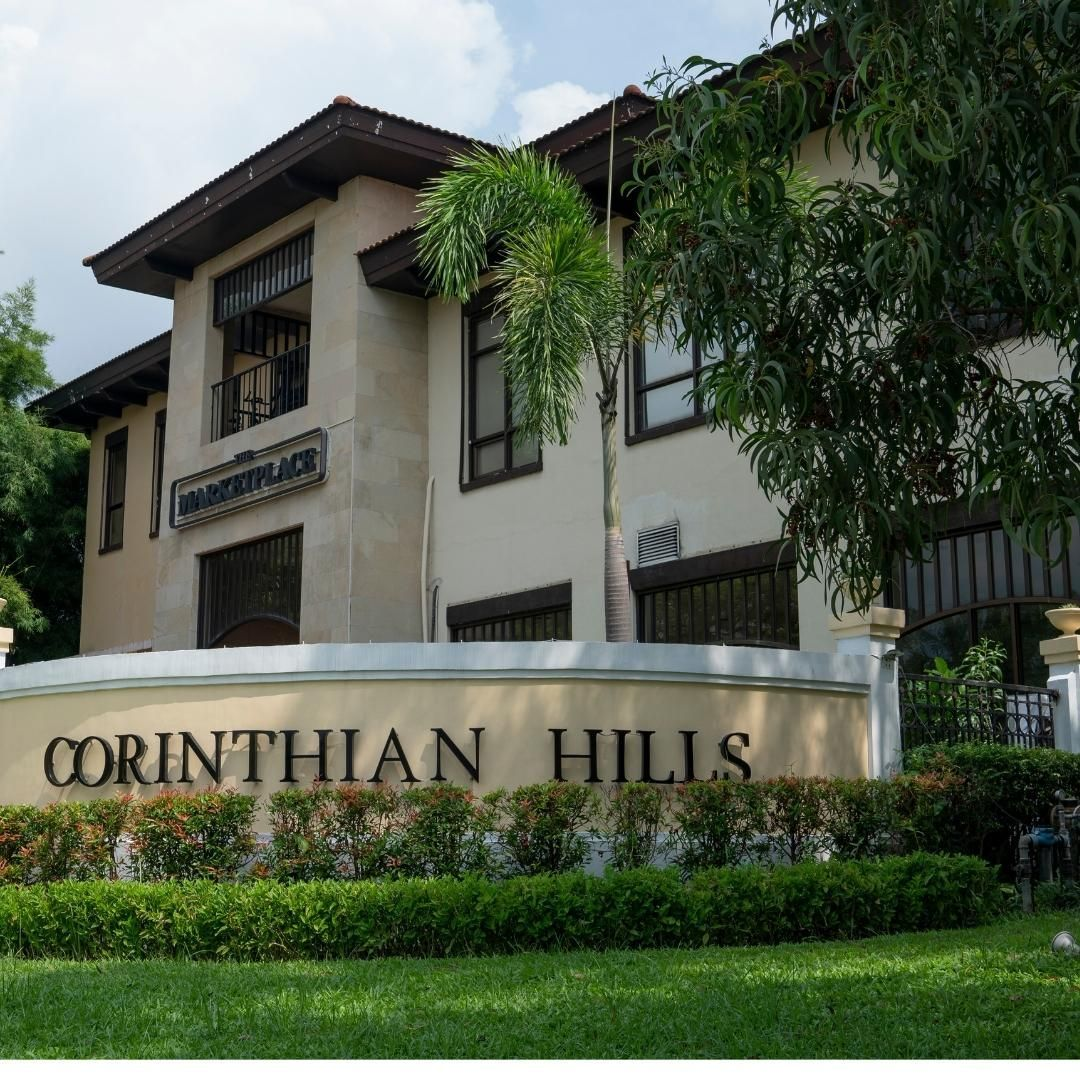
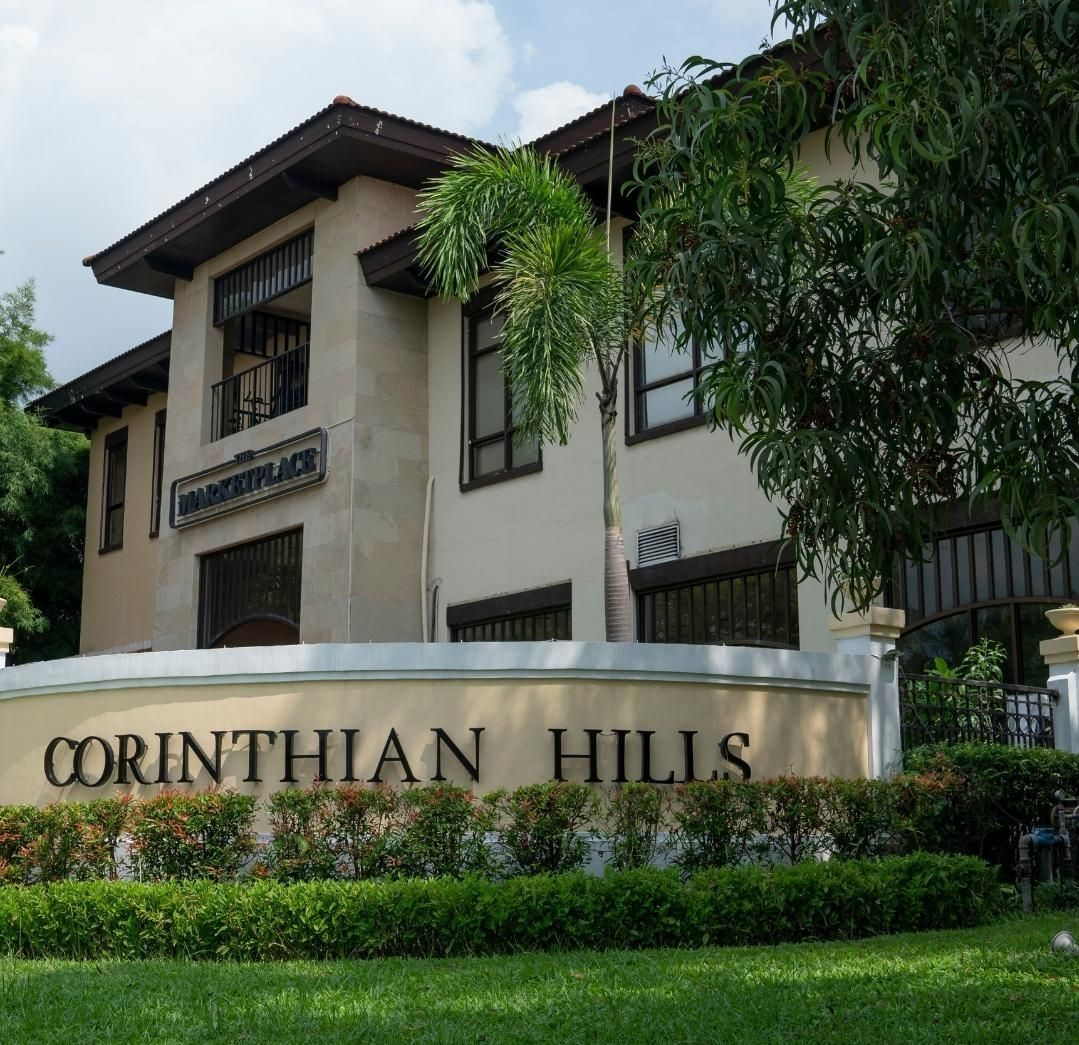
updates for other pages

diff --git a/pages/public/projects/index.tsx b/pages/public/projects/index.tsx
@@ -1,0 +1,127 @@
+import React, { useEffect, useState } from "react";
+import Header from "@/components/Layout/_Header";
+import HeaderBar from "@/components/Layout/HeaderBar";
+import GlobalFooter from '@/components/Layout/GlobalFooter';
+
+export default function Projects() {
+
+    return (
+        
+        <div>
+            <Header />
+            <HeaderBar />
+
+            <div className="d-flex text-center flex-column align-items-center cutter-section">
+                <div className="container">
+
+                    <div className="heading-block text-center border-0 cutter-title" data-heading="P">
+                        <h2 className="fs-1 fw-bold mb-4">Our Projects</h2>
+                        <small className="fs-5 fw-light text-secondary">
+                            Our Projects showcase the strength, precision, and reliability behind every PVC pipe solution we deliver. 
+                            From residential plumbing to large-scale commercial systems, we build durable connections that stand the test of time.
+                        </small>
+                    </div>
+
+                </div>
+
+                <div className="container projects-gallery">
+                    
+                    <div className="d-flex flex-column gap-2">
+                        <div className="d-flex flex-column flex-md-row align-items-center gap-4 my-5">
+                            <img src="/images/projects/proj8.jpg" alt="" className="img-fluid rounded-3 animate-hov shadow" />
+                            <div className="d-flex flex-column text-start ps-5">
+                                <h3>Heritage Park</h3>
+                                <small className="fs-5 fw-light text-secondary">
+                                    Our Projects showcase the strength, precision, and reliability behind every PVC pipe solution we deliver. 
+                                    From residential plumbing to large-scale commercial systems, we build durable connections that stand the test of time.
+                                </small>
+                            </div>
+                        </div>
+                        <div className="d-flex flex-column flex-md-row align-items-center gap-4 my-5">
+                            <div className="d-flex flex-column text-start pe-3">
+                                <h3>El Jardin Del Presidente</h3>
+                                <small className="fs-5 fw-light text-secondary">
+                                    Our Projects showcase the strength, precision, and reliability behind every PVC pipe solution we deliver. 
+                                    From residential plumbing to large-scale commercial systems, we build durable connections that stand the test of time.
+                                </small>
+                            </div>
+                            <img src="/images/projects/proj5.jpg" alt="" className="img-fluid rounded-3 animate-hov shadow" />
+                        </div>
+                    </div>
+                    <div className="d-flex flex-column gap-2">
+                        <div className="d-flex flex-column flex-md-row align-items-center gap-4 my-5">
+                            <img src="/images/projects/proj2.jpg" alt="" className="img-fluid rounded-3 animate-hov shadow" />
+                            <div className="d-flex flex-column text-start ps-5">
+                                <h3>RCBC Plaza</h3>
+                                <small className="fs-5 fw-light text-secondary">
+                                    Our Projects showcase the strength, precision, and reliability behind every PVC pipe solution we deliver. 
+                                    From residential plumbing to large-scale commercial systems, we build durable connections that stand the test of time.
+                                </small>
+                            </div>
+                        </div>
+                        <div className="d-flex flex-column flex-md-row align-items-center gap-4 my-5">
+                            <div className="d-flex flex-column text-start pe-3">
+                                <h3>Robinson's Galleria Regency</h3>
+                                <small className="fs-5 fw-light text-secondary">
+                                    Our Projects showcase the strength, precision, and reliability behind every PVC pipe solution we deliver. 
+                                    From residential plumbing to large-scale commercial systems, we build durable connections that stand the test of time.
+                                </small>
+                            </div>
+                            <img src="/images/projects/proj6.jpg" alt="" className="img-fluid rounded-3 animate-hov shadow" />
+                        </div>
+                    </div>
+                    <div className="d-flex flex-column gap-2">
+                        <div className="d-flex flex-column flex-md-row align-items-center gap-4 my-5">
+                            <img src="/images/projects/proj4.jpg" alt="" className="img-fluid rounded-3 animate-hov shadow" />
+                            <div className="d-flex flex-column text-start ps-5">
+                                <h3>Corinthian Hills</h3>
+                                <small className="fs-5 fw-light text-secondary">
+                                    Our Projects showcase the strength, precision, and reliability behind every PVC pipe solution we deliver. 
+                                    From residential plumbing to large-scale commercial systems, we build durable connections that stand the test of time.
+                                </small>
+                            </div>
+                        </div>
+                        <div className="d-flex flex-column flex-md-row align-items-center gap-4 my-5">
+                            <div className="d-flex flex-column text-start pe-3">
+                                <h3>Greenbelt 1 & 2 Redevelopment</h3>
+                                <small className="fs-5 fw-light text-secondary">
+                                    Our Projects showcase the strength, precision, and reliability behind every PVC pipe solution we deliver. 
+                                    From residential plumbing to large-scale commercial systems, we build durable connections that stand the test of time.
+                                </small>
+                            </div>
+                            <img src="/images/projects/proj7.jpg" alt="" className="img-fluid rounded-3 animate-hov shadow" />
+                        </div>
+                    </div>
+                    <div className="d-flex flex-column gap-2">
+                        <div className="d-flex flex-column flex-md-row align-items-center gap-4 my-5">
+                            <img src="/images/projects/proj10.jpg" alt="" className="img-fluid rounded-3 animate-hov shadow" />
+                            <div className="d-flex flex-column text-start ps-5">
+                                <h3>Manila - Japanese School</h3>
+                                <small className="fs-5 fw-light text-secondary">
+                                    Our Projects showcase the strength, precision, and reliability behind every PVC pipe solution we deliver. 
+                                    From residential plumbing to large-scale commercial systems, we build durable connections that stand the test of time.
+                                </small>
+                            </div>
+                        </div>
+                        <div className="d-flex flex-column flex-md-row align-items-center gap-4 my-5">
+                            <div className="d-flex flex-column text-start pe-3">
+                                <h3>Paseo Parkview</h3>
+                                <small className="fs-5 fw-light text-secondary">
+                                    Our Projects showcase the strength, precision, and reliability behind every PVC pipe solution we deliver. 
+                                    From residential plumbing to large-scale commercial systems, we build durable connections that stand the test of time.
+                                </small>
+                            </div>
+                            <img src="/images/projects/proj9.jpg" alt="" className="img-fluid rounded-3 animate-hov shadow" />
+                        </div>
+                    </div>
+
+                </div>
+            </div>
+
+            <div className="w-100">
+                <GlobalFooter />
+            </div>
+        </div>
+
+    );
+}

diff --git a/pages/public/product/[slug].tsx b/pages/public/product/[slug].tsx
@@ -677,9 +677,16 @@ export default function PublicProductDetail({ product, slugOrId }: Props) {
 										Secure checkout • Fast support • Easy returns
 									</p>
 								</div> */}
-								<h5 className="text-base font-semibold uppercase" style={{ margin: 0, marginBottom: 6 }}>Additional Information</h5>
+								<h5 className="text-base font-semibold uppercase" style={{ margin: 0, marginBottom: 6 }}>Technical Specifications</h5>
 								<p className="txt14">
 									Imperial PVC is a leading supplier of high-quality PVC products, committed to delivering durable and innovative solutions for modern construction needs. With a focus on quality, reliability, and customer satisfaction, we provide a wide range of PVC products designed to meet the demands of both residential and commercial projects.
+								</p>
+
+								<hr style={{ opacity: 0.12, margin: "22px 0" }} />
+
+								<h5 className="text-base font-semibold uppercase" style={{ margin: 0, marginBottom: 6 }}>Other Details</h5>
+								<p className="txt14">
+									We provide a wide range of PVC products designed to meet the demands of both residential and commercial projects.
 								</p>
 							</div>
 						</div>

diff --git a/pages/public/news.tsx b/pages/public/news.tsx
@@ -15,17 +15,19 @@ export default function NewsPage({ articles, categories, archives }: Props) {
   return (
     <div className="container">
       <div className="row">
+
+        {/* SIDEBAR */}
+        <div className="col-md-4 col-lg-3">
+          <div className="sidebar2 p-t-80 p-b-80 p-l-20 p-l-0-md p-t-0-md p-r-10-md p-r-20">
+            <LeftSidebar categories={categories} archive={archives} />
+          </div>
+        </div>
+
         {/* MAIN CONTENT */}
         <div className="col-md-8 col-lg-9">
           <NewsList articles={articles} />
         </div>
 
-        {/* SIDEBAR */}
-        <div className="col-md-4 col-lg-3">
-          <div className="sidebar2 p-t-80 p-b-80 p-l-20 p-l-0-md p-t-0-md">
-            <LeftSidebar categories={categories} archive={archives} />
-          </div>
-        </div>
       </div>
     </div>
   );

diff --git a/styles/custom.css b/styles/custom.css
@@ -38,22 +38,22 @@
     line-height: .3;
 }
 
-.card.animate-hov {
+.animate-hov {
     transition: all 0.3s ease;
     padding: 0px;
 }
 
-.card.animate-hov:hover {
+.animate-hov:hover {
     transform: scale(1.05);
     background-color: #f5f5f5;
 }
 
-.card.animate-hov:hover h2,
-.card.animate-hov:hover h3 {
+.animate-hov:hover h2,
+.animate-hov:hover h3 {
     color: #ff7b00;
 }
 
-.card.animate-hov .image-responsive {
+.animate-hov .image-responsive {
     max-height: 170px;
     overflow-y: hidden;
 }
@@ -69,4 +69,8 @@ img.proj-image {
 
 .cutter-title {
     margin-bottom: 4rem;
+}
+
+.projects-gallery img.animate-hov {
+    max-width: 600px;
 }

diff --git a/components/News/LeftSidebar.tsx b/components/News/LeftSidebar.tsx
@@ -1,5 +1,6 @@
 import { useRouter } from "next/router";
 import { useState } from "react";
+import SearchIcon from "../icons/search";
 
 type Props = {
   categories: any[];
@@ -49,8 +50,9 @@ export default function LeftSidebar({ categories, archive }: Props) {
         />
         <button
           className="btn-search-sidebar2 flex-c-m ti-search trans-0-4"
-          onClick={() => pushQuery({ search })}
-        />
+          onClick={() => pushQuery({ search })}>
+            <SearchIcon />
+        </button>
       </div>
 
       {/* CATEGORIES */}

diff --git a/components/News/NewsList.tsx b/components/News/NewsList.tsx
@@ -6,7 +6,7 @@ type Props = {
 
 export default function NewsList({ articles }: Props) {
   return (
-    <div className="p-t-80 p-b-124 bo5-r h-full p-r-50 p-r-0-md bo-none-md">
+    <div className="p-t-80 p-b-124 h-full p-r-50 p-r-0-md bo-none-md">
       {articles.length === 0 ? (
         <div className="txt32 text-center p-t-50">
           No news available.
